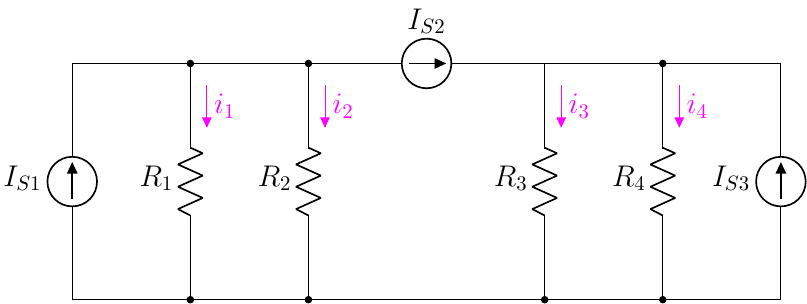
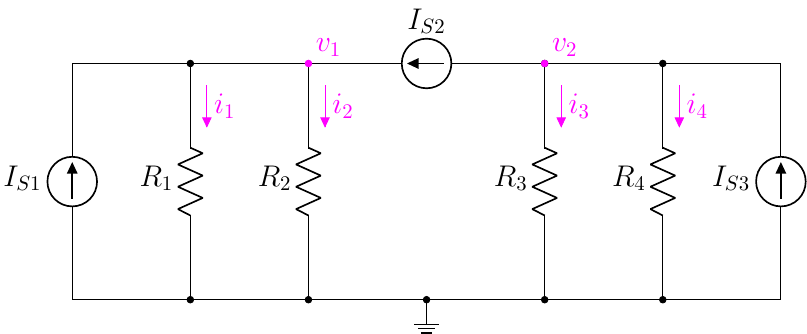
edit 3.4

diff --git a/1.3 Nodal Analysis/3.2 Nodal Analysis/3.4(new).tex b/1.3 Nodal Analysis/3.2 Nodal Analysis/3.4(new).tex
@@ -16,17 +16,20 @@
     % %%% horizontal %%%
     \draw(0,0)  to[short,-*] ++(2,0)
                 to[short,-*] ++(2,0)
-                to[short,-*] ++(4,0)
+                to[short,-*] ++(2,0) node[ground]{}
+                to[short,-*] ++(2,0)
                 to[short,-*] ++(2,0)
                 to[short] ++(2,0);
 
-    \draw(0,4)  to[short,-*] ++(2,0)
-                to[short,-*] ++(2,0)
-                to[I,l=\isname{2}] ++(4,0)
-                to[short,-*] ++(2,0)
-                to[short] ++(2,0);
+    \draw(12,4)  to[short,-*] ++(-2,0)
+                to[short,-*] ++(-2,0)
+                to[I,l_=\isname{2}] ++(-4,0)
+                to[short,-*] ++(-2,0)
+                to[short] ++(-2,0);
 
     % %%% find %%%
+    \nodev{4}{4}{1};
+    \nodev{8}{4}{2};
     
 \end{circuitikz}
 \end{document}
